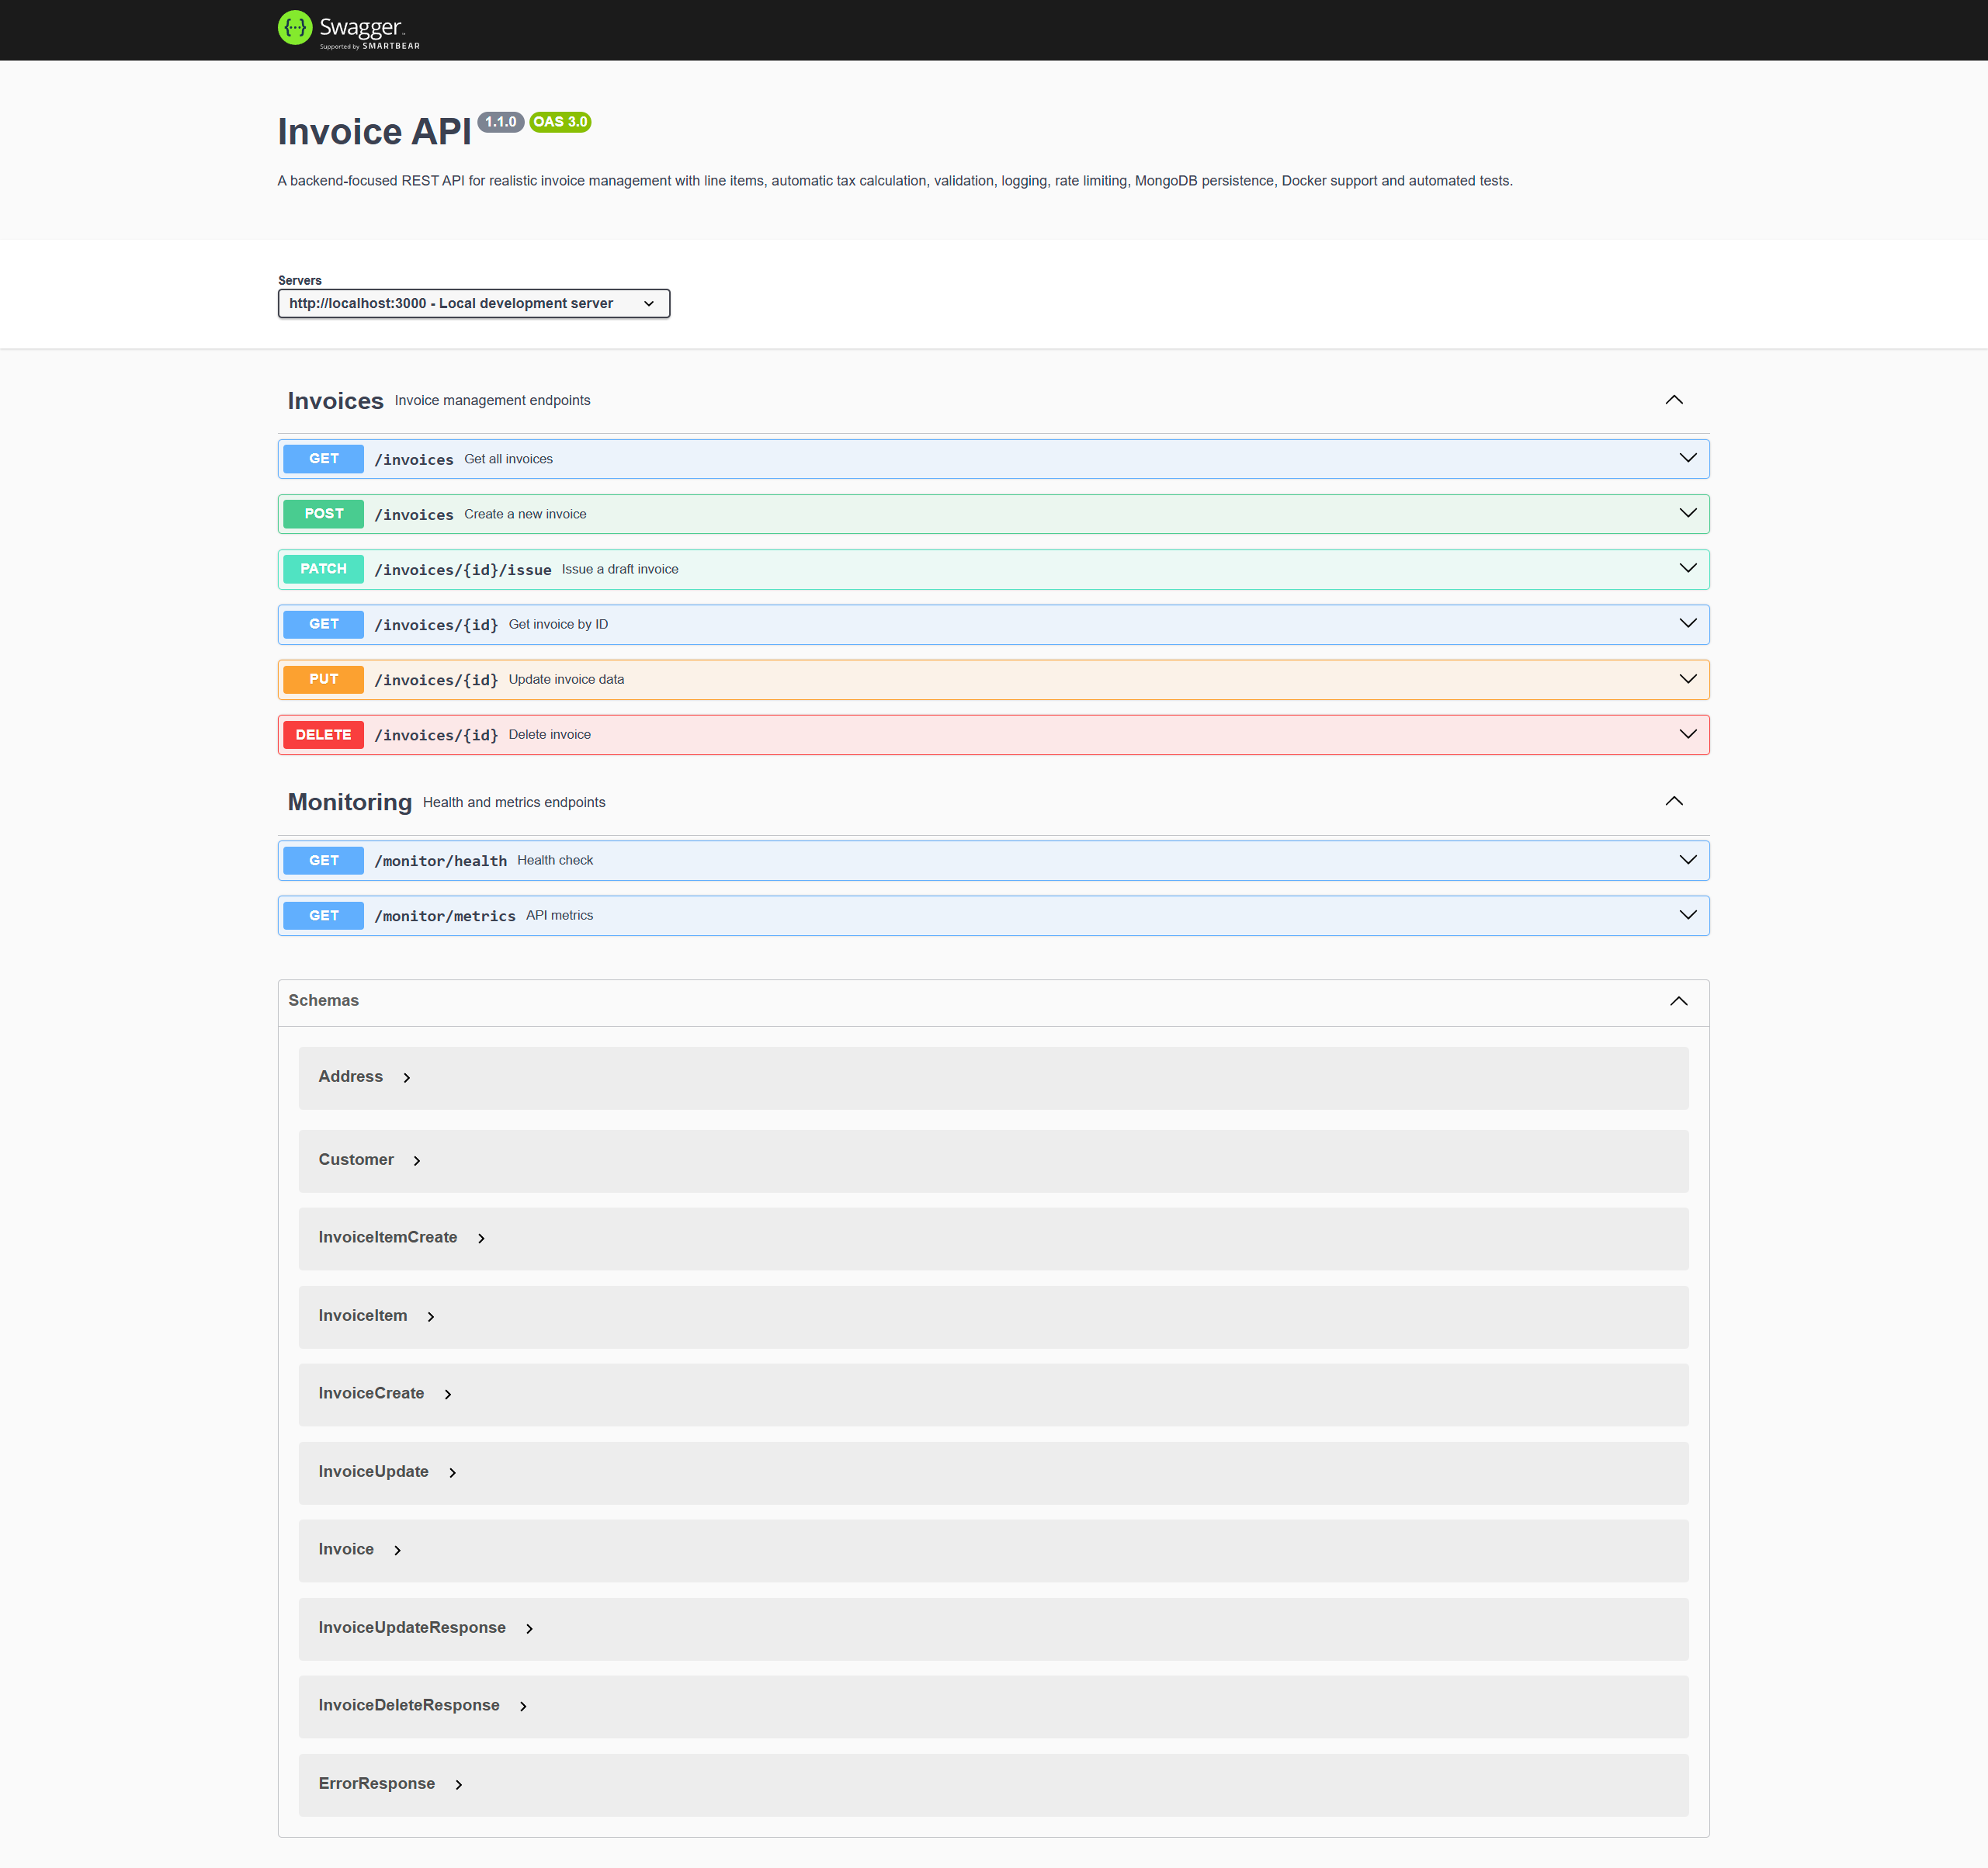
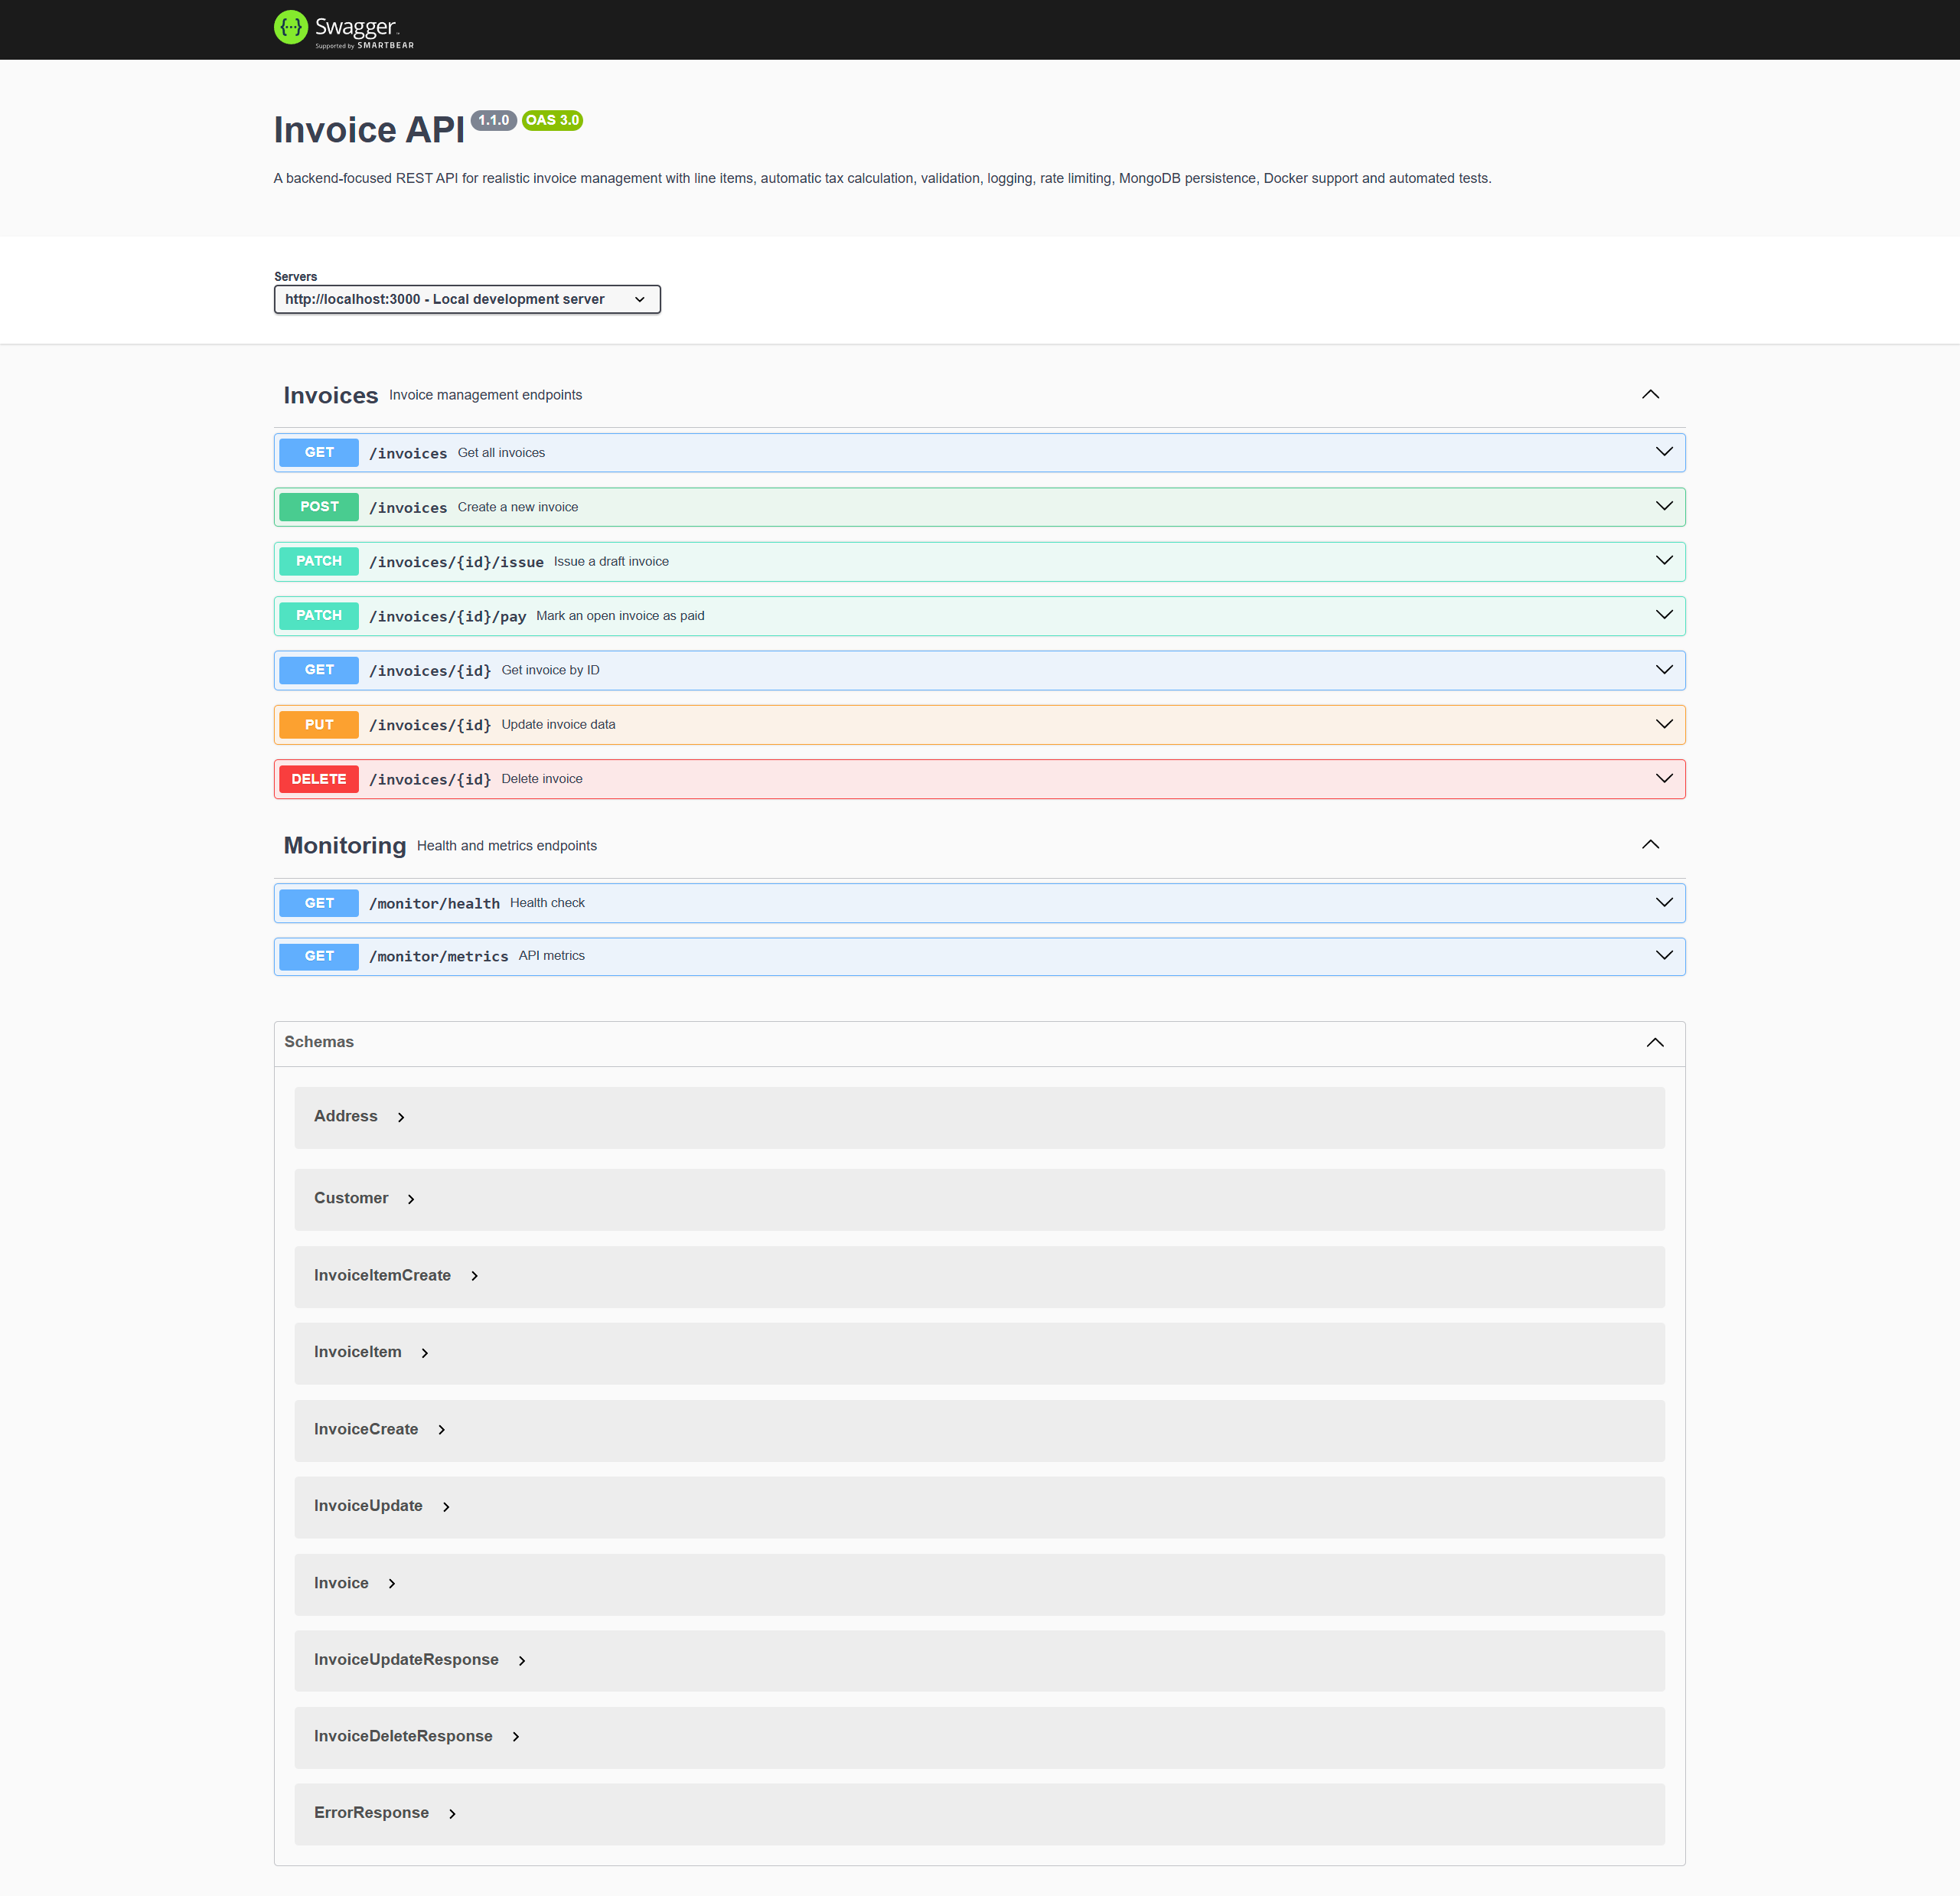
Add invoice payment endpoint

diff --git a/tests/invoice.api.test.js b/tests/invoice.api.test.js
@@ -276,4 +276,101 @@ describe("Invoice API", () => {
     expect(response.status).toBe(404);
     expect(response.body).toHaveProperty("message", "Invoice not found");
   });
+
+    it("PATCH /invoices/:id/pay should mark an open invoice as paid", async () => {
+    const issuedAt = new Date();
+    const dueDate = new Date(issuedAt);
+    dueDate.setDate(dueDate.getDate() + 14);
+
+    const created = await Invoice.create(
+      buildInvoice({
+        sequence: 1,
+        status: "OPEN",
+        issuedAt,
+        dueDate,
+        customer: {
+          name: "Payment Customer",
+          email: "[email redacted]",
+        },
+      })
+    );
+
+    const response = await request(app).patch(`/invoices/${created._id}/pay`);
+
+    expect(response.status).toBe(200);
+    expect(response.body).toHaveProperty("message", "Invoice paid");
+    expect(response.body).toHaveProperty("invoice");
+
+    expect(response.body.invoice.status).toBe("PAID");
+    expect(response.body.invoice.paidAt).not.toBeNull();
+
+    expect(response.body.invoice.subtotal).toBe(created.subtotal);
+    expect(response.body.invoice.taxAmount).toBe(created.taxAmount);
+    expect(response.body.invoice.total).toBe(created.total);
+
+    const storedInvoice = await Invoice.findById(created._id);
+    expect(storedInvoice.status).toBe("PAID");
+    expect(storedInvoice.paidAt).not.toBeNull();
+  });
+
+  it("PATCH /invoices/:id/pay should not pay a draft invoice", async () => {
+    const created = await Invoice.create(
+      buildInvoice({
+        sequence: 1,
+        status: "DRAFT",
+        customer: {
+          name: "Draft Payment Customer",
+          email: "[email redacted]",
+        },
+      })
+    );
+
+    const response = await request(app).patch(`/invoices/${created._id}/pay`);
+
+    expect(response.status).toBe(409);
+    expect(response.body).toHaveProperty(
+      "message",
+      "Only open invoices can be paid."
+    );
+
+    const unchangedInvoice = await Invoice.findById(created._id);
+    expect(unchangedInvoice.status).toBe("DRAFT");
+    expect(unchangedInvoice.paidAt).toBeNull();
+  });
+
+  it("PATCH /invoices/:id/pay should not pay a cancelled invoice", async () => {
+    const created = await Invoice.create(
+      buildInvoice({
+        sequence: 1,
+        status: "CANCELLED",
+        cancelledAt: new Date(),
+        customer: {
+          name: "Cancelled Payment Customer",
+          email: "[email redacted]",
+        },
+      })
+    );
+
+    const response = await request(app).patch(`/invoices/${created._id}/pay`);
+
+    expect(response.status).toBe(409);
+    expect(response.body).toHaveProperty(
+      "message",
+      "Only open invoices can be paid."
+    );
+
+    const unchangedInvoice = await Invoice.findById(created._id);
+    expect(unchangedInvoice.status).toBe("CANCELLED");
+    expect(unchangedInvoice.paidAt).toBeNull();
+  });
+
+  it("PATCH /invoices/:id/pay should return 404 for a missing invoice", async () => {
+    const missingId = new mongoose.Types.ObjectId();
+
+    const response = await request(app).patch(`/invoices/${missingId}/pay`);
+
+    expect(response.status).toBe(404);
+    expect(response.body).toHaveProperty("message", "Invoice not found");
+  });
+
 });

diff --git a/controllers/invoiceController.js b/controllers/invoiceController.js
@@ -141,6 +141,30 @@ exports.issueInvoice = async (req, res) => {
   }
 };
 
+// Pay invoice
+exports.payInvoice = async (req, res) => {
+  try {
+    const paidInvoice = await invoiceService.payInvoice(req.params.id);
+
+    if (!paidInvoice) {
+      return res.status(404).json({ message: "Invoice not found" });
+    }
+
+    res.json({
+      message: "Invoice paid",
+      invoice: paidInvoice,
+    });
+  } catch (err) {
+    logger.error(`Error in payInvoice: ${err.message}`);
+
+    if (err.statusCode === 409) {
+      return res.status(409).json({ message: err.message });
+    }
+
+    res.status(400).json({ message: "Invalid invoice ID" });
+  }
+};
+
 // Delete invoice
 exports.deleteInvoice = async (req, res) => {
   try {

diff --git a/services/invoiceService.js b/services/invoiceService.js
@@ -181,6 +181,26 @@ async function issueInvoice(id) {
   return savedInvoice.toObject();
 }
 
+async function payInvoice(id) {
+  const invoice = await Invoice.findById(id);
+
+  if (!invoice) {
+    return null;
+  }
+
+  if (invoice.status !== "OPEN") {
+    const error = new Error("Only open invoices can be paid.");
+    error.statusCode = 409;
+    throw error;
+  }
+
+  invoice.status = "PAID";
+  invoice.paidAt = new Date();
+
+  const savedInvoice = await invoice.save();
+  return savedInvoice.toObject();
+}
+
 async function deleteInvoice(id) {
   return Invoice.findByIdAndDelete(id).lean();
 }
@@ -192,4 +212,5 @@ module.exports = {
   updateInvoice,
   deleteInvoice,
   issueInvoice,
+  payInvoice,
 };

diff --git a/routes/invoiceRoutes.js b/routes/invoiceRoutes.js
@@ -17,6 +17,7 @@ router.get("/", invoiceController.getAllInvoices);
 router.get("/:id", invoiceController.getInvoiceById);
 
 router.patch("/:id/issue", invoiceController.issueInvoice);
+router.patch("/:id/pay", invoiceController.payInvoice);
 
 // POST /invoices - mit Validation & Write-Limiter
 router.post(

diff --git a/README.md b/README.md
@@ -55,36 +55,38 @@ INV-2026-000001
 
 ## Invoice Lifecycle Rules
 
-The current version includes the first invoice lifecycle action: issuing a draft invoice.
+The current version includes dedicated lifecycle actions for issuing and paying invoices.
 
-| Action        | Rule                                               | Result                         |
-|-------------- |--------------------------------------------------- | -------------------------------|
-| Issue invoice | Only `DRAFT` invoices can be issued                | Status changes to `OPEN`       |
-| Issue date    | Set automatically when the invoice is issued       | `issuedAt` is stored           |
-| Due date      | Calculated automatically                           | `dueDate = issuedAt + 14 days` |
+| Action        | Rule                                         | Result                         |
+| ------------- | -------------------------------------------- | ------------------------------ |
+| Issue invoice | Only `DRAFT` invoices can be issued          | Status changes to `OPEN`       |
+| Issue date    | Set automatically when the invoice is issued | `issuedAt` is stored           |
+| Due date      | Calculated automatically                     | `dueDate = issuedAt + 14 days` |
+| Pay invoice   | Only `OPEN` invoices can be paid             | Status changes to `PAID`       |
+| Payment date  | Set automatically when the invoice is paid   | `paidAt` is stored             |
 
-
-Paid and cancelled invoice flows are planned as separate lifecycle endpoints.
+Cancelled invoice flows are planned as a separate lifecycle endpoint.
 
 ---
 
 ## Features
 
-| Feature         | Description                                                     |
-| --------------- | --------------------------------------------------------------- |
-| Invoice CRUD    | Create, read, update and delete invoices                        |
-| Invoice Numbers | Automatic invoice number generation                             |
-| Line Items      | Invoices contain one or more billable items                     |
-| Tax Calculation | Automatic subtotal, tax amount and total calculation            |
-| MongoDB         | Persistent invoice storage with Mongoose                        |
-| Validation      | Request validation with Joi                                     |
-| Swagger         | Interactive OpenAPI documentation                               |
-| Logging         | HTTP request logging with Morgan and Winston                    |
-| Rate Limiting   | Global and write-operation rate limits                          |
-| Monitoring      | Health and metrics endpoints                                    |
-| Tests           | Automated API tests with Jest and Supertest                     |
-| Docker          | Containerized application setup                                 |
-| Invoice Issuing | Draft invoices can be issued with automatic issue and due dates |
+| Feature         | Description                                                             |
+| --------------- | ----------------------------------------------------------------------- |
+| Invoice CRUD    | Create, read, update and delete invoices                                |
+| Invoice Numbers | Automatic invoice number generation                                     |
+| Line Items      | Invoices contain one or more billable items                             |
+| Tax Calculation | Automatic subtotal, tax amount and total calculation                    |
+| MongoDB         | Persistent invoice storage with Mongoose                                |
+| Validation      | Request validation with Joi                                             |
+| Swagger         | Interactive OpenAPI documentation                                       |
+| Logging         | HTTP request logging with Morgan and Winston                            |
+| Rate Limiting   | Global and write-operation rate limits                                  |
+| Monitoring      | Health and metrics endpoints                                            |
+| Tests           | Automated API tests with Jest and Supertest                             |
+| Docker          | Containerized application setup                                         |
+| Invoice Issuing | Draft invoices can be issued with automatic issue and due dates         |
+| Invoice Payment | Open invoices can be marked as paid with an automatic payment timestamp |
 
 ---
 
@@ -151,6 +153,7 @@ http://localhost:3000/api-docs
 | POST   | `/invoices`           | Create a new draft invoice   |
 | PUT    | `/invoices/:id`       | Update editable invoice data |
 | PATCH  | `/invoices/:id/issue` | Issue a draft invoice        |
+| PATCH  | `/invoices/:id/pay`   | Mark an open invoice as paid |
 | DELETE | `/invoices/:id`       | Delete invoice               |
 
 ### Monitoring
@@ -380,6 +383,8 @@ The current version focuses on the core invoice backend:
 * Clean REST API structure
 * Invoice creation with calculated totals
 * Invoice issuing with automatic due date calculation
+* Open invoices can be marked as paid after they have been issued
+* Invoice payment with automatic payment timestamp
 * MongoDB persistence
 * Request validation
 * Swagger documentation
@@ -387,12 +392,12 @@ The current version focuses on the core invoice backend:
 * Docker support
 * Basic monitoring and logging
 
-Invoice lifecycle actions such as paying and cancelling invoices are planned as dedicated business endpoints instead of being handled through a generic update request.
+
+Invoice cancellation is planned as a dedicated business endpoint instead of being handled through a generic update request.
 
 Planned endpoints:
 
 ```text
-PATCH /invoices/:id/pay
 PATCH /invoices/:id/cancel
 ```
 